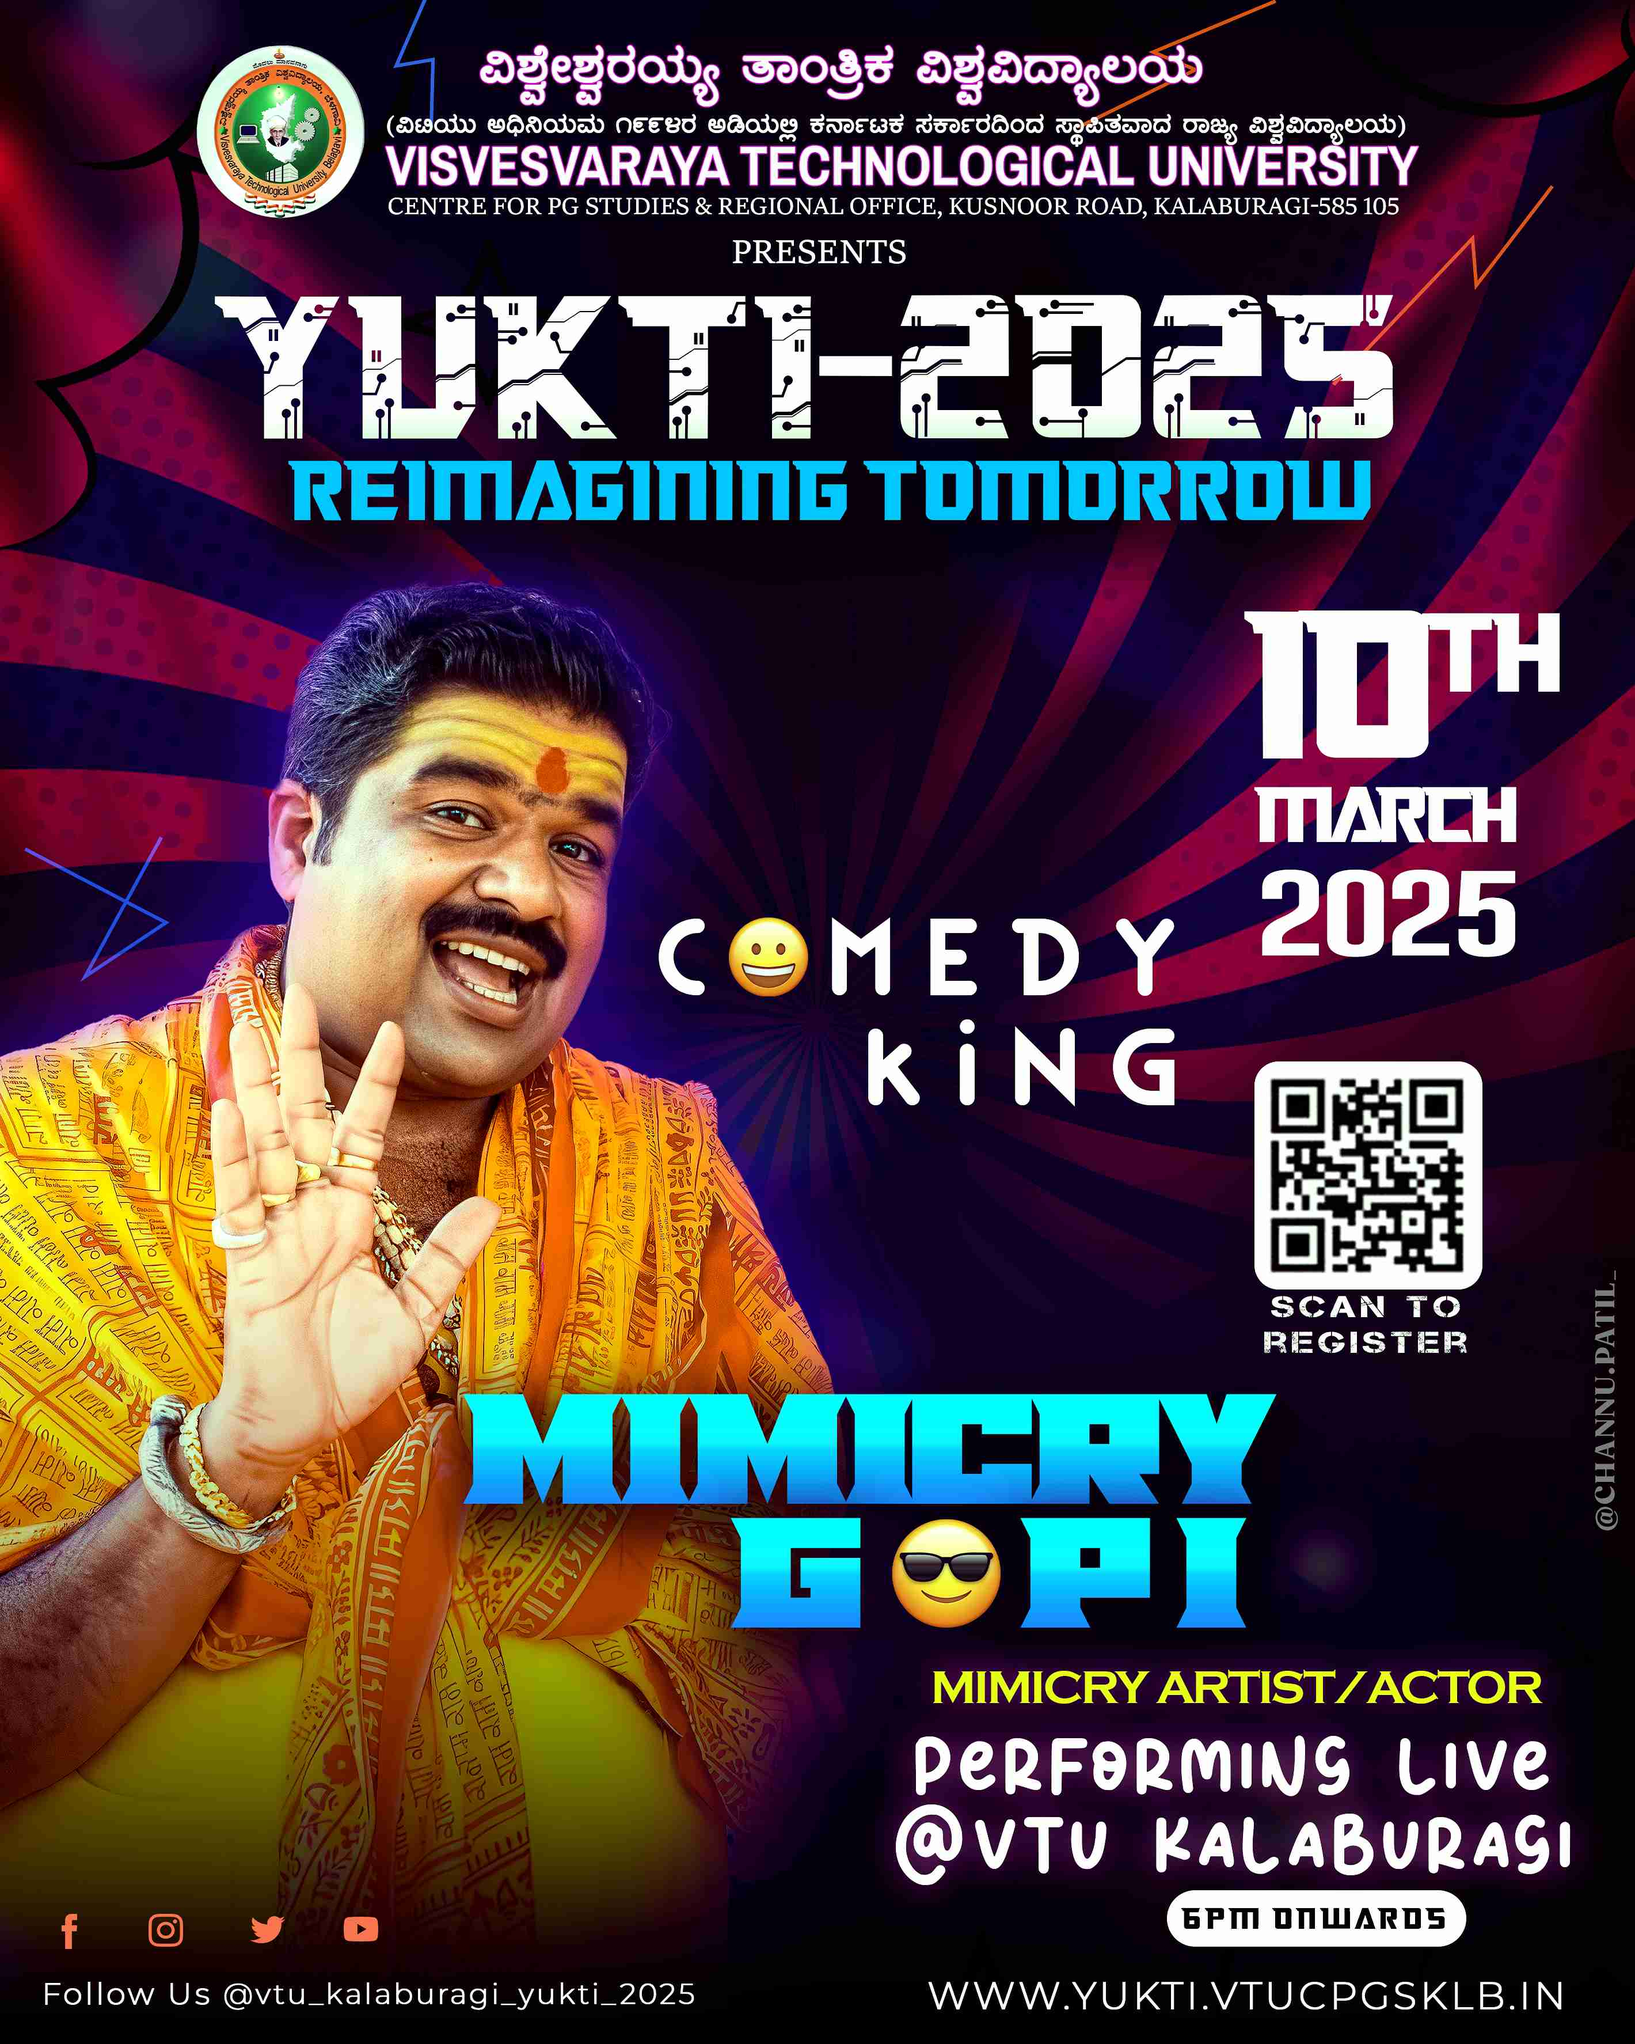
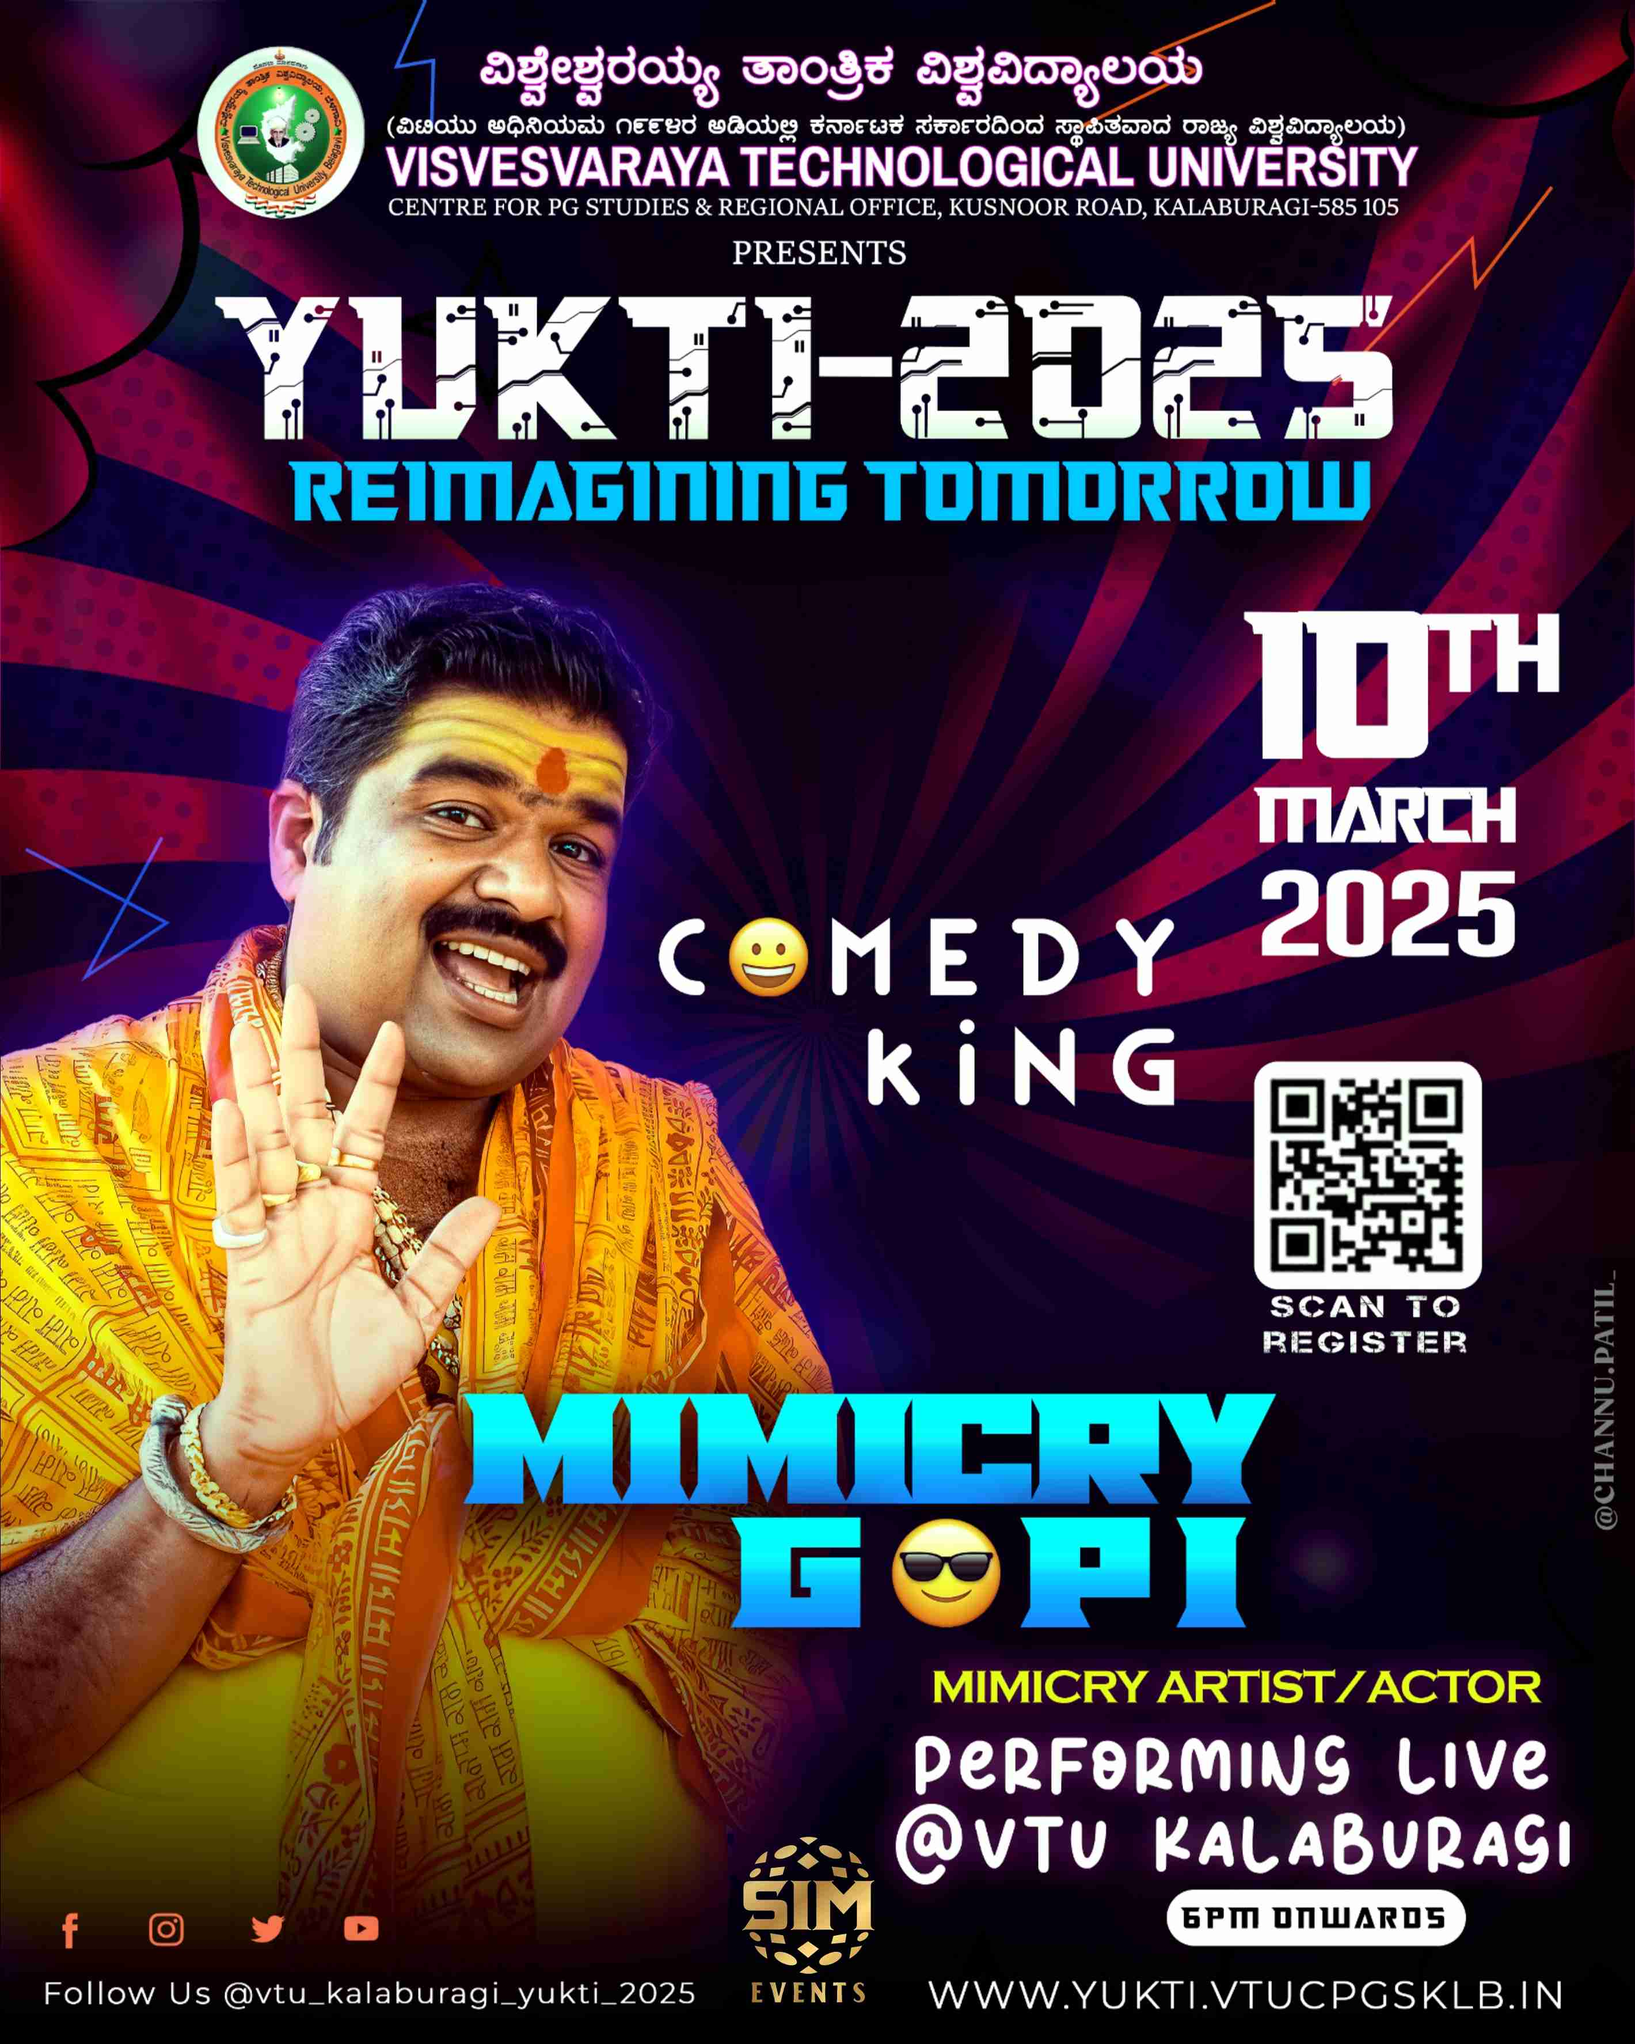
updates

diff --git a/templates/home.html b/templates/home.html
@@ -89,16 +89,16 @@
         <!-- Festival Title -->
         <div class="space-y-4 sm:space-y-6 md:space-y-8 mt-6 sm:mt-8 md:mt-10">
             <h1 class="text-[2.5rem] sm:text-[3.5rem] md:text-[4.5rem] lg:text-[6rem] font-bold text-[#00FFFF]
-            opacity-0 transform translate-y-8 animate-[fadeIn_0.8s_ease_forwards] leading-tight 
-            font-turbo">
+               animate-[fadeIn_0.8s_ease_forwards] leading-tight font-turbo">
                 YU<span class="inline-block text-[#FF00FF] animate-[pulse_2s_ease-in-out_infinite]">K</span>TI -
                 2<span class="inline-block text-[#FF00FF] animate-[pulse_2s_ease-in-out_infinite]">0</span>25
             </h1>
-            <p class="text-lg sm:text-xl md:text-2xl lg:text-[3rem] text-[#C0C0C0] font-['Orbitron']
-                      opacity-0 animate-[fadeIn_1s_ease-forwards_0.5s]">
+
+            <h2 class="text-lg sm:text-xl md:text-2xl lg:text-[3rem] text-[#C0C0C0] font-['Orbitron']
+             animate-[fadeIn_1s_ease_forwards_0.5s]">
                 RE<span class="inline-block text-[#FF00FF] animate-[pulse_2s_ease-in-out_infinite]">IM</span>AGINING
                 TOM<span class="inline-block text-[#FF00FF] animate-[pulse_2s_ease-in-out_infinite]">ORR</span>OW
-            </p>
+            </h2>
         </div>
         <h2 class="text-xl sm:text-2xl md:text-3xl lg:text-4xl text-[#00FFFF]
                        font-['Orbitron'] tracking-wider animate-[gradient-flow_3s_linear_infinite]
@@ -279,6 +279,7 @@
                     <p class="text-sm">
                         Visit <a href="http://www.yukti.vtucpgsklb.in" class="text-[#00FFFF] hover:text-[#FF00FF]">www.yukti.vtucpgsklb.in</a> for more details
                     </p>
+                    <p class="text-sm text-gray-400">Organized by: SIM Events</p>
                 </div> 
             </div>
 
@@ -287,7 +288,7 @@
                 <div class="relative w-full aspect-[3/4] max-h-[500px] rounded-xl overflow-hidden 
                     border-2 border-[#00FFFF] transform transition-all duration-300 
                     hover:scale-105 hover:border-[#FF00FF]">
-                    <img src="{{ url_for('static', filename='assets/sponsor/Krishna.jpg') }}" 
+                    <img src="{{ url_for('static', filename='assets/sponsor/ajith.jpg') }}" 
                         alt="Krishna Ajai Rao" 
                         class="w-full h-full object-contain bg-black/40">
                     <div class="absolute inset-0 bg-gradient-to-t from-black/70 via-black/20 to-black/70"></div>
@@ -308,7 +309,7 @@
                     <h3 class="text-2xl sm:text-3xl font-['Orbitron'] font-bold text-[#00FFFF] mb-2">
                         Special Musical Performance
                     </h3>
-                    <p class="text-sm text-gray-400">March 10, 2025 | 6 PM onwards</p>
+                   
                 </div>
 
                 <div class="space-y-4 text-gray-300">
@@ -333,6 +334,7 @@
                         Follow us on Instagram <a href="https://www.instagram.com/vtu_kalaburagi_yukti_2025" 
                         class="text-[#00FFFF] hover:text-[#FF00FF]">@vtu_kalaburagi_yukti_2025</a> for updates
                     </p>
+                    <p class="text-sm text-gray-400">Organized by: SIM Events</p>
                 </div>
             </div>
 
@@ -362,14 +364,14 @@
                     <h3 class="text-2xl sm:text-3xl font-['Orbitron'] font-bold text-[#00FFFF] mb-2">
                         Special Comedy Performance
                     </h3>
-                    <p class="text-sm text-gray-400">March 10, 2025 | 6 PM onwards</p>
+                   
                 </div>
 
                 <div class="space-y-4 text-gray-300">
                     <p class="text-lg">
                         Get ready to laugh out loud with renowned 
                         <span class="text-[#00FFFF] font-semibold">Mimicry Gopi</span>, 
-                        the "Comedy King" known for his outstanding mimicry skills!
+                        the "Comedy King" known for his outstanding mimicry skills.
                     </p>
                     <div class="space-y-2">
                         <p class="font-semibold text-[#00FFFF]">Performance Details:</p>
@@ -391,6 +393,7 @@
                     <p class="text-sm">
                         Visit <a href="http://www.yukti.vtucpgsklb.in" class="text-[#00FFFF] hover:text-[#FF00FF]">www.yukti.vtucpgsklb.in</a> for more details
                     </p>
+                    <p class="text-sm text-gray-400">Organized by: SIM Events</p>
                 </div>
             </div>
 
@@ -406,6 +409,123 @@
                 </div>
             </div>
         </div>
+
+        <!-- Add Fourth Artist Card after the third card -->
+        <div class="group bg-[#0A0A0A] backdrop-blur-md rounded-xl p-4 sm:p-8 mt-8
+            border-2 border-[#00FFFF] shadow-[0_0_30px_rgba(0,255,255,0.1)] 
+            transform transition-all duration-500 hover:-translate-y-2 
+            hover:shadow-[0_15px_30px_rgba(0,255,255,0.4)] hover:border-[#FF00FF]
+            relative overflow-hidden flex flex-col-reverse sm:flex-row gap-4 sm:gap-8">
+
+            <!-- Content Section -->
+            <div class="w-full sm:w-1/2 space-y-4 sm:space-y-6">
+                <div>
+                    <h3 class="text-2xl sm:text-3xl font-['Orbitron'] font-bold text-[#00FFFF] mb-2">
+                        Special Musical Performance
+                    </h3>
+                    
+                </div>
+
+                <div class="space-y-4 text-gray-300">
+                    <p class="text-lg">
+                        Get ready for a mesmerizing performance by renowned singer 
+                        <span class="text-[#00FFFF] font-semibold">Ananya Prakash</span>
+                    </p>
+                    <div class="space-y-2">
+                        <p class="font-semibold text-[#00FFFF]">Special Performance</p>
+                        <ul class="list-disc list-inside space-y-1 text-gray-300">
+                            <li>Live Musical Concert</li>
+                            <li>Bollywood & Kannada Hits</li>
+                            <li>Interactive Performance</li>
+                        </ul>
+                    </div>
+                    <ul class="space-y-2">
+                        <li><span class="text-[#00FFFF]">Venue:</span> VTU Kalaburagi</li>
+                        <li><span class="text-[#00FFFF]">Date:</span> March 11, 2025</li>
+                        <li><span class="text-[#00FFFF]">Time:</span> 6 PM onwards</li>
+                    </ul>
+                    <p class="text-sm text-gray-400">
+                        Follow us on Instagram <a href="https://www.instagram.com/vtu_kalaburagi_yukti_2025" 
+                        class="text-[#00FFFF] hover:text-[#FF00FF]">@vtu_kalaburagi_yukti_2025</a> for updates
+                    </p>
+                    <p class="text-sm">
+                        Visit <a href="http://www.yukti.vtucpgsklb.in" class="text-[#00FFFF] hover:text-[#FF00FF]">www.yukti.vtucpgsklb.in</a> for more details
+                    </p>
+                    <p class="text-sm text-gray-400">Organized by: SIM Events</p>
+                </div>
+            </div>
+
+            <!-- Image Section -->
+            <div class="w-full sm:w-1/2 flex items-center justify-center">
+                <div class="relative w-full aspect-[3/4] max-h-[500px] rounded-xl overflow-hidden 
+                    border-2 border-[#00FFFF] transform transition-all duration-300 
+                    hover:scale-105 hover:border-[#FF00FF]">
+                    <img src="{{ url_for('static', filename='assets/sponsor/ananya.jpg') }}" 
+                        alt="Ananya Prakash" 
+                        class="w-full h-full object-contain bg-black/40">
+                    <div class="absolute inset-0 bg-gradient-to-t from-black/70 via-black/20 to-black/70"></div>
+                </div>
+            </div>
+        </div>
+
+        <!-- Add Fifth Artist Card after the fourth card -->
+        <div class="group bg-[#0A0A0A] backdrop-blur-md rounded-xl p-4 sm:p-8 mt-8
+            border-2 border-[#00FFFF] shadow-[0_0_30px_rgba(0,255,255,0.1)] 
+            transform transition-all duration-500 hover:-translate-y-2 
+            hover:shadow-[0_15px_30px_rgba(0,255,255,0.4)] hover:border-[#FF00FF]
+            relative overflow-hidden flex flex-col-reverse sm:flex-row gap-4 sm:gap-8">
+
+            <!-- Content Section -->
+            <div class="w-full sm:w-1/2 space-y-4 sm:space-y-6">
+                <div>
+                    <h3 class="text-2xl sm:text-3xl font-['Orbitron'] font-bold text-[#00FFFF] mb-2">
+                        Special Musical Performance
+                    </h3>
+                  
+                </div>
+
+                <div class="space-y-4 text-gray-300">
+                    <p class="text-lg">
+                        Get ready for an incredible musical journey with renowned playback singer 
+                        <span class="text-[#00FFFF] font-semibold">Santhosh Venky</span>
+                    </p>
+                    <div class="space-y-2">
+                        <p class="font-semibold text-[#00FFFF]">Known For:</p>
+                        <ul class="list-disc list-inside space-y-1 text-gray-300">
+                            <li>Songs in KGF: Chapter 2</li>
+                            <li>Songs in Pushpa 2: The Rule</li>
+                            <li>Live Concert Performance</li>
+                        </ul>
+                    </div>
+                    <ul class="space-y-2">
+                        <li><span class="text-[#00FFFF]">Venue:</span> VTU Kalaburagi</li>
+                        <li><span class="text-[#00FFFF]">Date:</span> March 11, 2025</li>
+                        <li><span class="text-[#00FFFF]">Time:</span> 6 PM onwards</li>
+                    </ul>
+                    <p class="text-sm text-gray-400">
+                        Follow us on Instagram <a href="https://www.instagram.com/vtu_kalaburagi_yukti_2025" 
+                        class="text-[#00FFFF] hover:text-[#FF00FF]">@vtu_kalaburagi_yukti_2025</a> for updates
+                    </p>
+                    <p class="text-sm">
+                        Visit <a href="http://www.yukti.vtucpgsklb.in" class="text-[#00FFFF] hover:text-[#FF00FF]">www.yukti.vtucpgsklb.in</a> for more details
+                    </p>
+                    <p class="text-sm text-gray-400">Organized by: SIM Events</p>
+                </div>
+            </div>
+
+            <!-- Image Section -->
+            <div class="w-full sm:w-1/2 flex items-center justify-center">
+                <div class="relative w-full aspect-[3/4] max-h-[500px] rounded-xl overflow-hidden 
+                    border-2 border-[#00FFFF] transform transition-all duration-300 
+                    hover:scale-105 hover:border-[#FF00FF]">
+                    <img src="{{ url_for('static', filename='assets/sponsor/venky.jpg') }}" 
+                        alt="Santhosh Venky" 
+                        class="w-full h-full object-contain bg-black/40">
+                    <div class="absolute inset-0 bg-gradient-to-t from-black/70 via-black/20 to-black/70"></div>
+                </div>
+            </div>
+        </div>
+
     </div>
 </div>
 
@@ -457,11 +577,14 @@
                             hover:shadow-[0_15px_30px_rgba(0,255,255,0.4)]">
                     <h3 class="text-lg sm:text-xl text-[#00FFFF] font-['Orbitron'] mb-2">Title Sponsor</h3>
                     <div class="relative p-2 w-full max-w-[280px] sm:max-w-md mx-auto">
-                        <img src="{{ url_for('static', filename='assets/sponsor/webveer.png') }}" 
-                             alt="WebVeer - Title Sponsor" 
-                             class="w-full h-auto max-h-32 sm:max-h-48 object-contain mx-auto
-                                    filter brightness-100 hover:brightness-110 drop-shadow-[0_0_10px_rgba(0,255,255,0.3)]
-                                    transform transition-all duration-300 hover:scale-105 mb-4">
+                        <a href="https://webveer.com/" target="_blank" rel="noopener noreferrer" 
+                           class="block hover:opacity-90 transition-opacity">
+                            <img src="{{ url_for('static', filename='assets/sponsor/webveer.png') }}" 
+                                 alt="WebVeer - Title Sponsor" 
+                                 class="w-full h-auto max-h-32 sm:max-h-48 object-contain mx-auto
+                                        filter brightness-100 hover:brightness-110 drop-shadow-[0_0_10px_rgba(0,255,255,0.3)]
+                                        transform transition-all duration-300 hover:scale-105 mb-4">
+                        </a>
                         <p class="text-center text-[#C0C0C0] text-xs sm:text-sm md:text-base font-['Rajdhani']">
                             WEBVEER AUTOMATION AND SERVICE PRIVATE LIMITED, GOKAK, BELAGAVI
                         </p>
@@ -575,7 +698,7 @@
                         transform transition-all duration-500 hover:-translate-y-2 
                         hover:shadow-[0_15px_30px_rgba(0,255,255,0.4)] hover:border-[#FF00FF]
                         w-[180px] sm:w-[200px] h-[240px] sm:h-[280px] flex flex-col">
-                <h3 class="text-base sm:text-lg text-[#00FFFF] font-['Orbitron'] mb-2 text-center">YESHASWI ELECTRIC VEHICALES</h3>
+                <h3 class="text-base sm:text-lg text-[#00FFFF] font-['Orbitron'] mb-2 text-center">Yeshaswi Electric Vehicles</h3>
                 <div class="relative flex-1 flex items-center justify-center">
                     <img src="{{ url_for('static', filename='assets/sponsor/Elec.png') }}" 
                          alt="Red FM - Radio Partner" 
@@ -767,7 +890,11 @@
     }
 
     @keyframes fadeIn {
-        to {
+        0% {
+            opacity: 0;
+            transform: translateY(20px);
+        }
+        100% {
             opacity: 1;
             transform: translateY(0);
         }

diff --git a/templates/base.html b/templates/base.html
@@ -553,7 +553,7 @@
                     <span class="text-[#FF00FF] text-xl sm:text-2xl">★</span>
                     <span class="text-base sm:text-lg md:text-xl text-[#00FFFF] font-['Orbitron']">
                         <i class="fas fa-microphone mr-2"></i>
-                        Artists to be Announced Soon
+                        Artists Announced
                     </span>
                 </div>
             </div>
